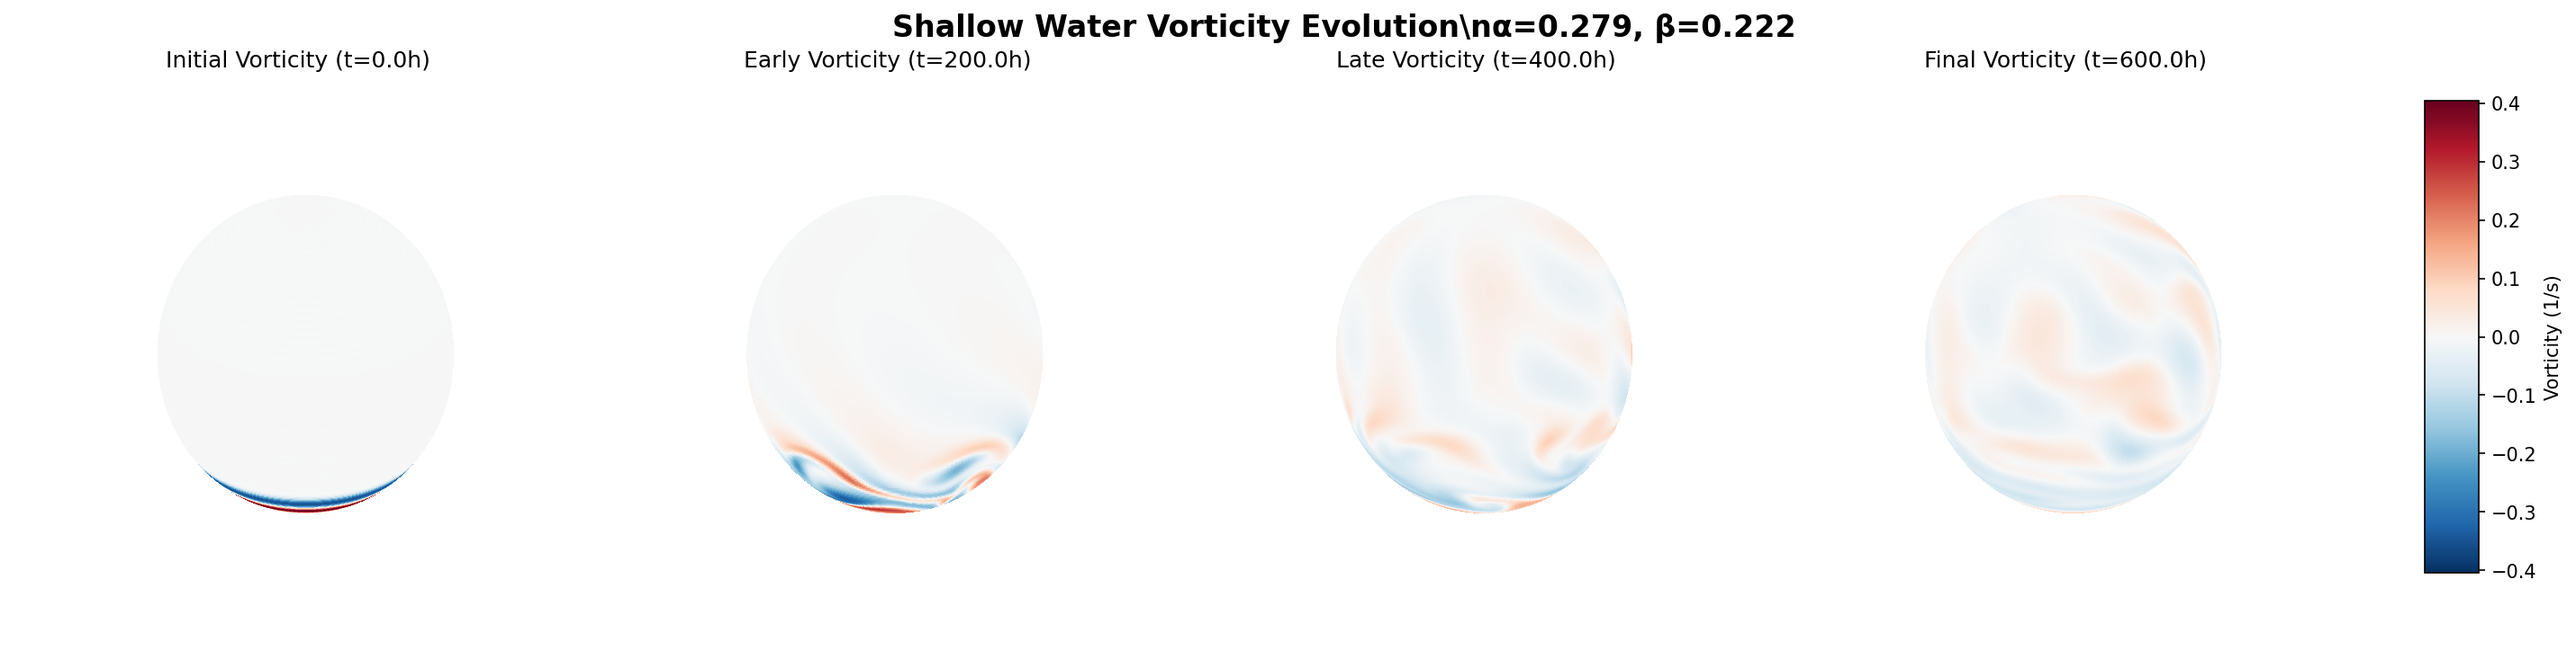
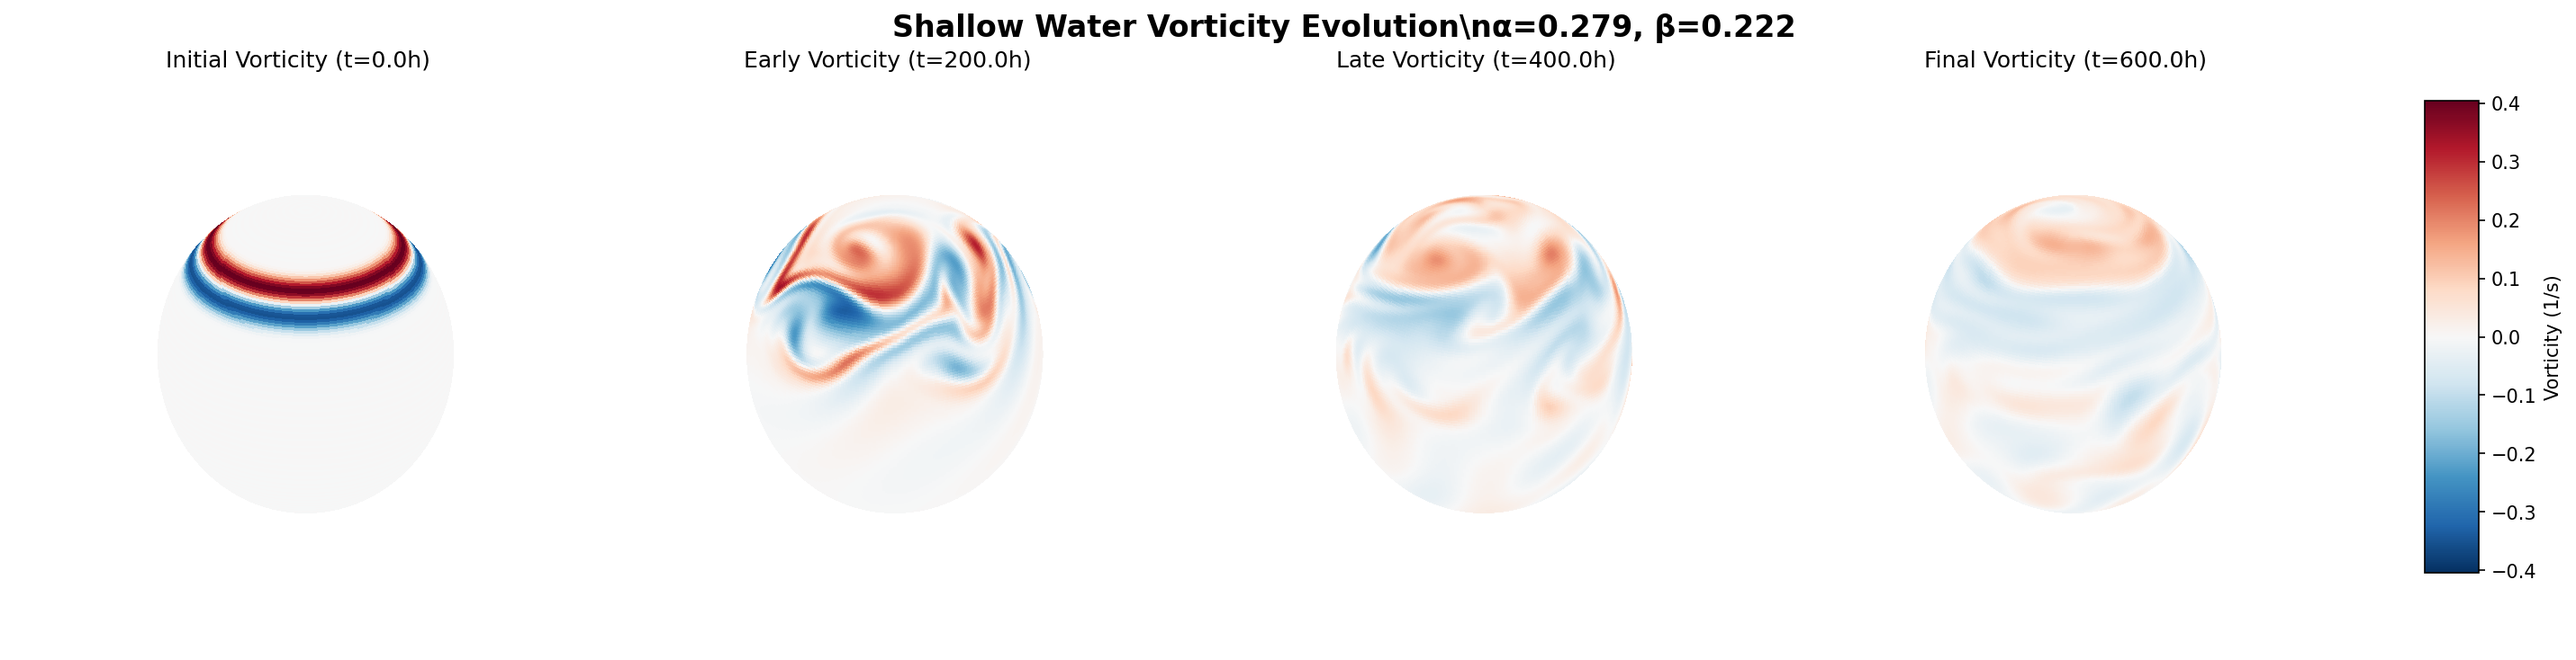
Add shallow water dataset implementation and update related scripts

diff --git a/plot_animation.py b/plot_animation.py
@@ -8,10 +8,12 @@ import matplotlib.pyplot as plt
 import matplotlib.animation as animation
 import os
 from PIL import Image
-from dataset import ShallowWaterDataset, build_s2_coord_vertices
+from shallow_water_dataset import ShallowWaterDataset, build_s2_coord_vertices
 
 
-def create_shallow_water_animation(sample, save_path="shallow_water_animation.gif", fps=2):
+def create_shallow_water_animation(
+    sample, save_path="shallow_water_animation.gif", fps=2
+):
     """Create an animated GIF showing vorticity evolution over time"""
     # Extract data
     vorticity_traj = sample["vorticity_trajectory"]
@@ -77,7 +79,7 @@ def create_shallow_water_animation(sample, save_path="shallow_water_animation.gi
         plt.subplots_adjust(right=0.85)
         cbar_ax = fig.add_axes([0.87, 0.15, 0.02, 0.7])
         fig.colorbar(mappable, cax=cbar_ax, label="Vorticity (1/s)")
-        
+
         # Save frame
         frame_path = os.path.join(temp_dir, f"frame_{i:03d}.png")
         plt.savefig(frame_path, dpi=100, bbox_inches="tight", facecolor="white")
@@ -120,10 +122,10 @@ if __name__ == "__main__":
 
     # Create dataset with default parameters
     dataset = ShallowWaterDataset(
-        Nphi=64,  # Smaller for faster animation generation
-        Ntheta=32,
-        stop_sim_time=100,  # Shorter simulation
-        save_interval=5,
+        Nphi=256,
+        Ntheta=128,
+        stop_sim_time=600,
+        save_interval=1,
     )
 
     # Generate a single sample

diff --git a/generate_data.py b/generate_data.py
@@ -7,7 +7,7 @@ import os
 import numpy as np
 import pyarrow as pa
 import pyarrow.parquet as pq
-from dataset import ShallowWaterDataset
+from shallow_water_dataset import ShallowWaterDataset
 
 
 def generate_dataset_split(
@@ -24,7 +24,7 @@ def generate_dataset_split(
         stop_sim_time=100,  # Shorter simulations for dataset generation
         save_interval=10,  # Save every 10 hours
     )
-    
+
     num_chunks = (num_samples + chunk_size - 1) // chunk_size  # Ceiling division
 
     print(f"Generating {num_samples} {split_name} samples in {num_chunks} chunks...")
@@ -51,7 +51,10 @@ def generate_dataset_split(
             table_data = {}
             for key, values in chunk_data.items():
                 if isinstance(values[0], np.ndarray):
-                    table_data[key] = [arr.tolist() if hasattr(arr, 'tolist') else arr for arr in values]
+                    table_data[key] = [
+                        arr.tolist() if hasattr(arr, "tolist") else arr
+                        for arr in values
+                    ]
                 else:
                     table_data[key] = values
 

diff --git a/shallow_water_dataset.py b/shallow_water_dataset.py
@@ -255,9 +255,4 @@ class ShallowWaterDataset(IterableDataset):
                 # Grid parameters
                 "Nphi": Nphi,
                 "Ntheta": Ntheta,
-                # Legacy fields for compatibility
-                "x": spatial_coords,  # Same as spatial_coordinates
-                "u": h_initial.ravel(),  # Flattened initial height perturbation
-                "y": spatial_coords,  # Same as spatial_coordinates
-                "s": vorticity_trajectory,  # Same as vorticity_trajectory
             }

diff --git a/plot_sample.py b/plot_sample.py
@@ -5,7 +5,7 @@ Plot a single sample from the shallow water dataset.
 
 import numpy as np
 import matplotlib.pyplot as plt
-from dataset import ShallowWaterDataset, build_s2_coord_vertices
+from shallow_water_dataset import ShallowWaterDataset, build_s2_coord_vertices
 
 
 def plot_shallow_water_sample(sample, save_path="sample_plot.png"):

diff --git a/README.md b/README.md
@@ -1,97 +1,131 @@
-# [YOUR PDE NAME] Dataset
+# Shallow Water Equations Dataset
 
-INSTRUCTIONS FOR CLAUDE:
-1. Replace the title with your specific PDE (e.g., "Heat Equation Dataset", "Navier-Stokes Dataset")  
-2. Update the description with your equation and physical context
-3. Replace the equation with your PDE in mathematical notation
-4. Update variables section with your dataset's return dictionary fields
-5. Update parameters with your PDE-specific parameters
-6. Add any additional sections relevant to your PDE (boundary conditions, physical interpretation, etc.)
-
-Numerical solutions to the [DIMENSION]D [YOUR EQUATION NAME].
+Numerical solutions to the viscous shallow water equations on a sphere using spectral methods.
 
 ![Sample Plot](sample_plot.png)
 
-## Equation
+## Equations
 
-<!-- TODO: Replace with your PDE in mathematical notation -->
-**Template**: ∂u/∂t = [YOUR_PDE_TERMS]
+The dataset simulates the viscous shallow water equations on a rotating sphere:
 
-**Examples**:
-- Heat equation: ∂u/∂t = α∇²u
-- Wave equation: ∂²u/∂t² = c²∇²u  
-- Navier-Stokes: ∂u/∂t + (u⋅∇)u = -∇p/ρ + ν∇²u
+**Momentum equation:**
+```
+∂u/∂t + ν∇⁴u + g∇h + 2Ω × u = -u·∇u
+```
+
+**Continuity equation:**
+```
+∂h/∂t + ν∇⁴h + H∇·u = -∇·(hu)
+```
+
+Where:
+- **u** is the velocity field (2-component vector)
+- **h** is the height perturbation field
+- **ν** is kinematic viscosity
+- **g** is gravitational acceleration
+- **Ω** is the Earth's rotation vector
+- **H** is the mean fluid height
 
 ## Variables
 
-<!-- TODO: Update this section with your dataset's return dictionary fields -->
 The dataset returns a dictionary with the following fields:
 
 ### Coordinates
-- `spatial_coordinates`: ([spatial_dims]) - Spatial grid points
-- `time_coordinates`: (time_steps,) - Time points
+- `spatial_coordinates`: (Nphi×Ntheta, 2) - Flattened (phi, theta) coordinate pairs
+- `phi_coords`: (Nphi, Ntheta) - Longitude grid
+- `theta_coords`: (Nphi, Ntheta) - Colatitude grid  
+- `lat_coords`: (Nphi, Ntheta) - Latitude grid
+- `time_coordinates`: (time_steps,) - Time points in hours
 
-### Solution Fields
-- `u_initial`: ([spatial_dims]) - Initial condition
-- `u_trajectory`: (time_steps, [spatial_dims]) - Primary solution field evolution
-<!-- Add your additional fields:
-- `v_trajectory`: (time_steps, [spatial_dims]) - Secondary field (if applicable)
-- `p_trajectory`: (time_steps, [spatial_dims]) - Pressure field (for fluids)
-- `energy`: (time_steps,) - Energy over time
-- `vorticity`: (time_steps, [spatial_dims]) - Vorticity field
--->
+### Initial Conditions
+- `u_initial`: (2, Nphi, Ntheta) - Initial velocity field
+- `h_initial`: (Nphi, Ntheta) - Initial height perturbation
+- `vorticity_initial`: (Nphi, Ntheta) - Initial vorticity field
 
-### Parameters (if included)
-<!-- TODO: List any PDE parameters included in the dataset
-- `diffusion_coeff`: Diffusion coefficient value
-- `wave_speed`: Wave propagation speed
-- `reynolds_number`: Reynolds number (for fluids)
--->
+### Solution Trajectories
+- `u_trajectory`: (time_steps, 2, Nphi, Ntheta) - Velocity field evolution
+- `h_trajectory`: (time_steps, Nphi, Ntheta) - Height field evolution
+- `vorticity_trajectory`: (time_steps, Nphi, Ntheta) - Vorticity field evolution
+
+### Physical Parameters
+- `alpha`: Perturbation width parameter
+- `beta`: Perturbation latitude scale parameter
+- `R`: Earth radius (6.37122×10⁶ m)
+- `Omega`: Earth rotation rate (7.292×10⁻⁵ rad/s)
+- `nu`: Kinematic viscosity
+- `g`: Gravitational acceleration (9.80616 m/s²)
+- `H`: Mean fluid height (10⁴ m)
+
+### Grid Parameters
+- `Nphi`: Number of longitude points
+- `Ntheta`: Number of latitude points
 
 ## Dataset Parameters
 
-<!-- TODO: Update with your specific parameters -->
-- **Domain**: [DOMAIN_DESCRIPTION] (e.g., [0, 10] for 1D, [0,1]×[0,1] for 2D)
-- **Grid points**: [GRID_SIZE] (e.g., 1024 for 1D, 128×128 for 2D)
-- **Time range**: [0, FINAL_TIME]
-- **Spatial resolution**: [RESOLUTION_INFO]
-- **Temporal resolution**: [TIME_STEP_INFO]
+- **Domain**: Spherical surface (φ ∈ [0, 2π], θ ∈ [0, π])
+- **Default grid**: 256×128 (longitude × latitude)
+- **Time range**: 0 to 360 hours (default)
+- **Spatial resolution**: Spectral (dealiased at 3/2 factor)
+- **Temporal resolution**: 600 seconds (10 minutes)
+- **Save interval**: Every 5 hours (default)
 
-### PDE-Specific Parameters
-<!-- TODO: Add your equation coefficients and parameters
-- **Diffusion coefficient**: α = [VALUE]
-- **Wave speed**: c = [VALUE] 
-- **Viscosity**: ν = [VALUE]
-- **Boundary conditions**: [DESCRIPTION]
--->
+### Physical Parameters
+- **Earth radius**: R = 6.37122×10⁶ m
+- **Rotation rate**: Ω = 7.292×10⁻⁵ rad/s
+- **Viscosity**: ν = 1×10⁵ m²/s / 32² (Reynolds number dependent)
+- **Gravity**: g = 9.80616 m/s²
+- **Mean height**: H = 10⁴ m
+- **Jet maximum velocity**: 80 m/s
+- **Perturbation amplitude**: 120 m
+
+### Random Parameters (per sample)
+- **Alpha range**: [0.05, 0.6] - Controls perturbation width in longitude
+- **Beta range**: [0.02, 0.3] - Controls perturbation width in latitude
 
 ## Physical Context
 
-<!-- TODO: Add description of the physical system
-**Template**: This dataset simulates [PHYSICAL_SYSTEM] governed by the [EQUATION_NAME]. 
-The equation models [PHYSICAL_PHENOMENA] and is relevant for [APPLICATIONS].
+This dataset simulates atmospheric or oceanic flows on a rotating sphere governed by the shallow water equations. The system models large-scale geophysical fluid dynamics, including:
 
-**Examples**:
-- Heat diffusion in a rod with various initial temperature profiles
-- Wave propagation with different boundary conditions
-- Fluid flow in a lid-driven cavity at various Reynolds numbers
--->
+- **Zonal jet streams** with realistic velocity profiles
+- **Geostrophic balance** between pressure gradients and Coriolis forces
+- **Rossby waves** and other planetary-scale motions
+- **Vorticity dynamics** in rotating reference frames
+
+Each sample begins with a balanced zonal jet (resembling atmospheric jet streams) perturbed by a localized height anomaly. The evolution showcases:
+- Jet instability and wave breaking
+- Vortex formation and interaction
+- Energy cascades in geophysical turbulence
+- Conservation of potential vorticity
+
+This dataset is relevant for:
+- Atmospheric and oceanic modeling
+- Climate dynamics
+- Geophysical fluid dynamics research
+- Weather prediction algorithms
+- Machine learning for Earth system modeling
 
 ## Usage
 
 ```python
-from dataset import YourDataset  # Replace with your actual class name
+from dataset import ShallowWaterDataset
 
 # Create dataset
-dataset = YourDataset()
+dataset = ShallowWaterDataset(
+    Nphi=256,           # Longitude points
+    Ntheta=128,         # Latitude points
+    stop_sim_time=360,  # Hours
+    save_interval=5     # Save every 5 hours
+)
 
 # Generate a sample
 sample = next(iter(dataset))
 
 # Access solution data
-spatial_coords = sample["spatial_coordinates"]
-solution = sample["u_trajectory"]
-times = sample["time_coordinates"]
+u_evolution = sample["u_trajectory"]      # Velocity field
+h_evolution = sample["h_trajectory"]      # Height field
+vorticity = sample["vorticity_trajectory"] # Vorticity field
+times = sample["time_coordinates"]        # Time points
+alpha, beta = sample["alpha"], sample["beta"] # Parameters
 ```
 
 ## Visualization
@@ -99,9 +133,11 @@ times = sample["time_coordinates"]
 Run the plotting scripts to visualize samples:
 
 ```bash
-python plot_sample.py      # Static visualization
-python plot_animation.py   # Animated evolution
+python plot_sample.py      # 4-panel static visualization on sphere
+python plot_animation.py   # Animated vorticity evolution
 ```
+
+The plotting functions create 3D spherical visualizations showing the evolution of vorticity fields over time, with proper Earth-like pole orientation.
 
 ## Data Generation
 
@@ -111,4 +147,17 @@ Generate the full dataset:
 python generate_data.py
 ```
 
-This creates train/test splits saved as chunked parquet files in the `data/` directory.
+This creates train/test splits saved as chunked parquet files in the `data/` directory. The generation uses smaller default parameters (128×64 grid, 100-hour simulations) for efficiency while maintaining the same physics.
+
+## File Structure
+
+```
+datasets-shallow-water-dedalus/
+├── dataset.py              # Main dataset class
+├── plot_sample.py           # 4-panel spherical visualization
+├── plot_animation.py        # Animated GIF generation
+├── generate_data.py         # Dataset generation script
+├── requirements.txt         # Python dependencies
+├── README.md               # This file
+└── sample_plot.png         # Example visualization
+```
